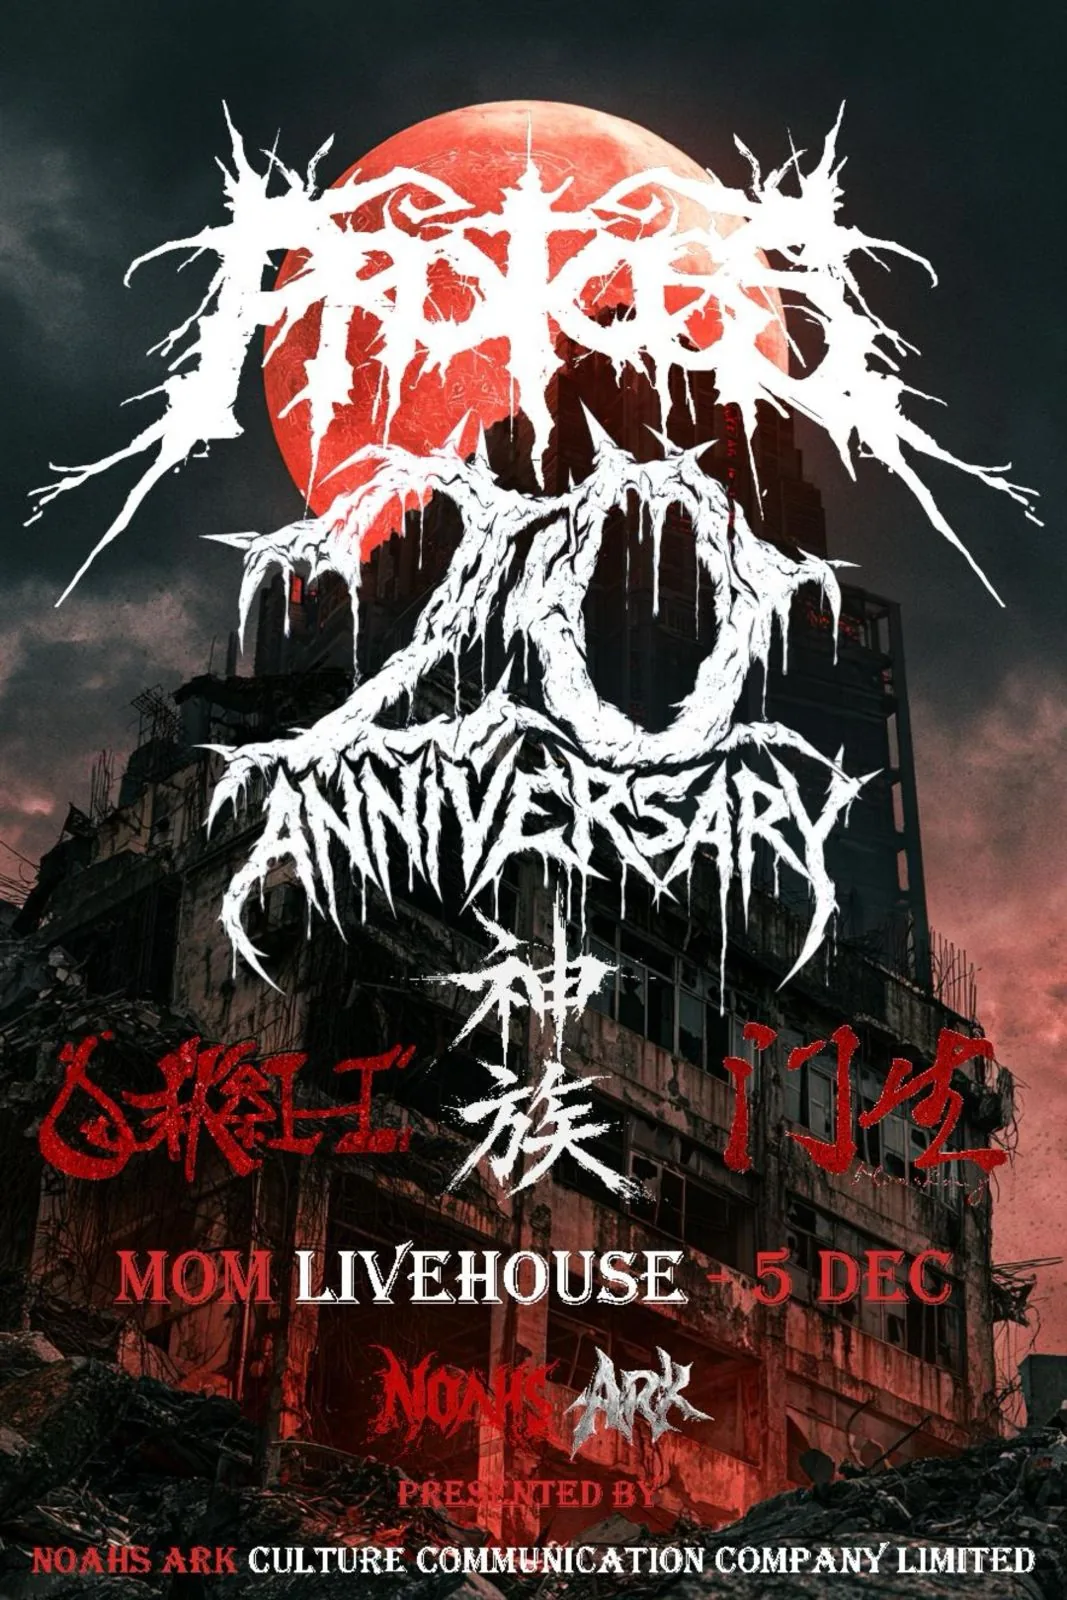
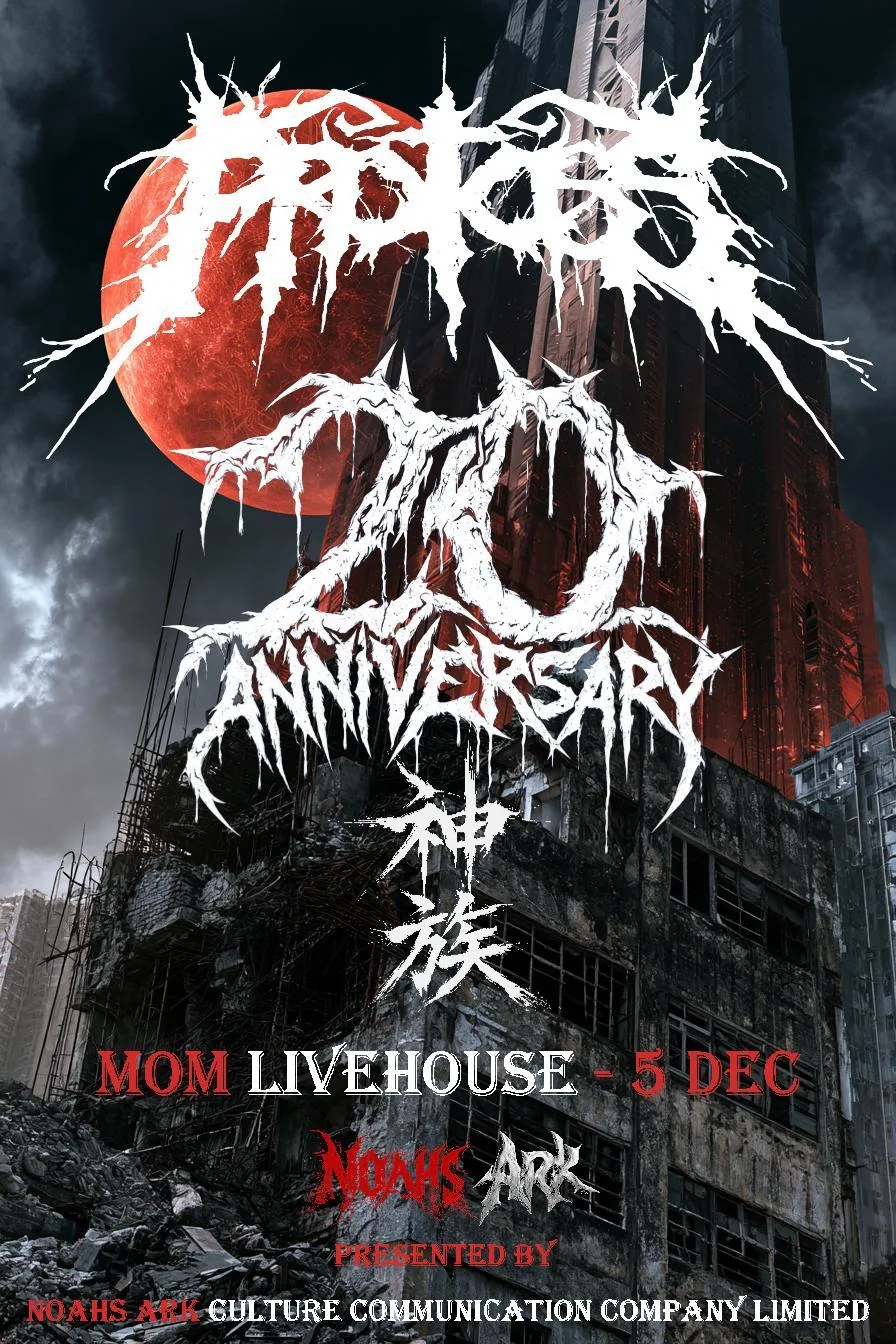
Update PROTOS 20th Anniversary poster (Presented By footer)
Replace public protoss-poster jpg/webp; cache-bust homepage card;
point tickets og:image at new poster. Leave dates/prices and video bg unchanged.

diff --git a/index.html b/index.html
@@ -396,8 +396,8 @@
       <div class="md:flex">
         <a class='upcoming-card__poster md:w-2/5 border-b md:border-b-0 md:border-r border-zinc-700' href='/tickets-noah-2-5'>
           <picture>
-            <source srcset="assets/protoss-poster.webp" type="image/webp" />
-            <img src="assets/protoss-poster.jpg" alt="PROTOSS 20th Anniversary — MOM Livehouse 5 Dec" width="1067" height="1600" loading="lazy" decoding="async" />
+            <source srcset="assets/protoss-poster.webp?v=20260921-poster" type="image/webp" />
+            <img src="assets/protoss-poster.jpg?v=20260921-poster" alt="PROTOSS 20th Anniversary — MOM Livehouse 5 Dec" width="896" height="1344" loading="lazy" decoding="async" />
           </picture>
         </a>
         <div class="md:w-3/5 p-8 md:p-10 flex flex-col justify-center">

diff --git a/tickets-noah-2-5.html b/tickets-noah-2-5.html
@@ -16,7 +16,7 @@
   </style>
   <link rel="icon" type="image/png" sizes="32x32" href="assets/favicon-32.png" />
   <link rel="apple-touch-icon" href="assets/favicon-512.png" />
-  <meta property="og:image" content="https://noahsarkhk2005.netlify.app/assets/og-image.jpg" />
+  <meta property="og:image" content="https://noahsarkhk2005.netlify.app/assets/protoss-poster.jpg?v=20260921-poster" />
 </head>
 <body class="bg-metal-950 text-zinc-200 min-h-screen">
 
